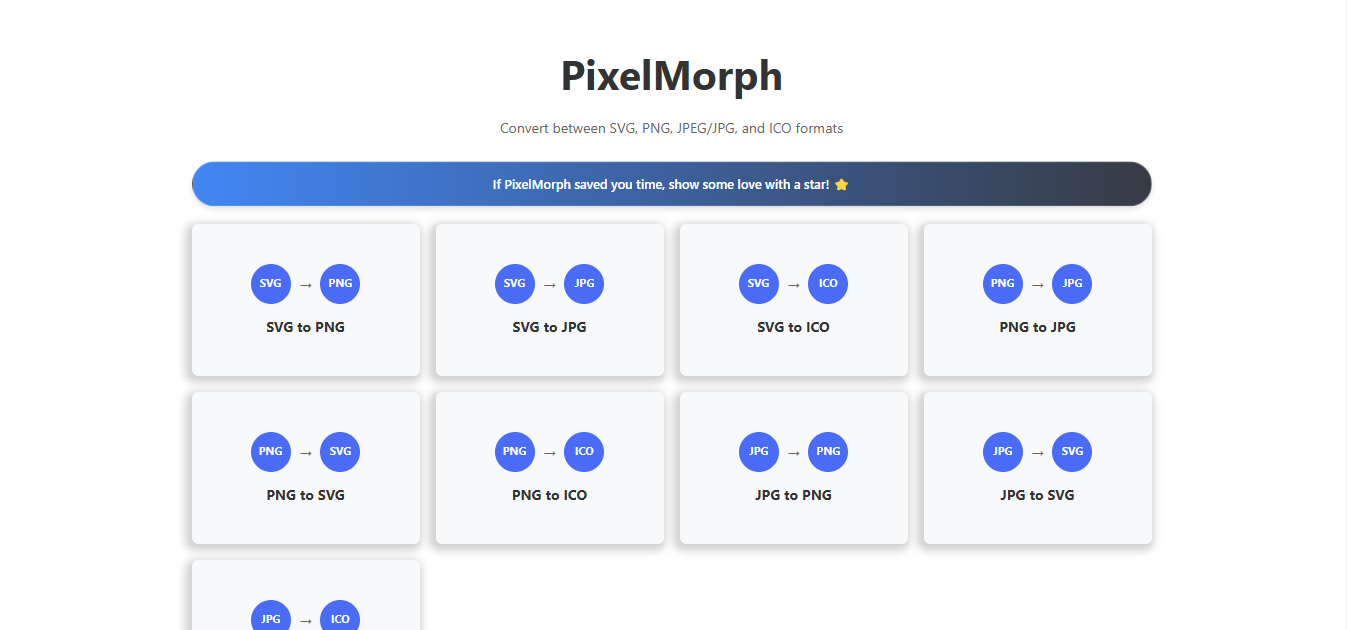
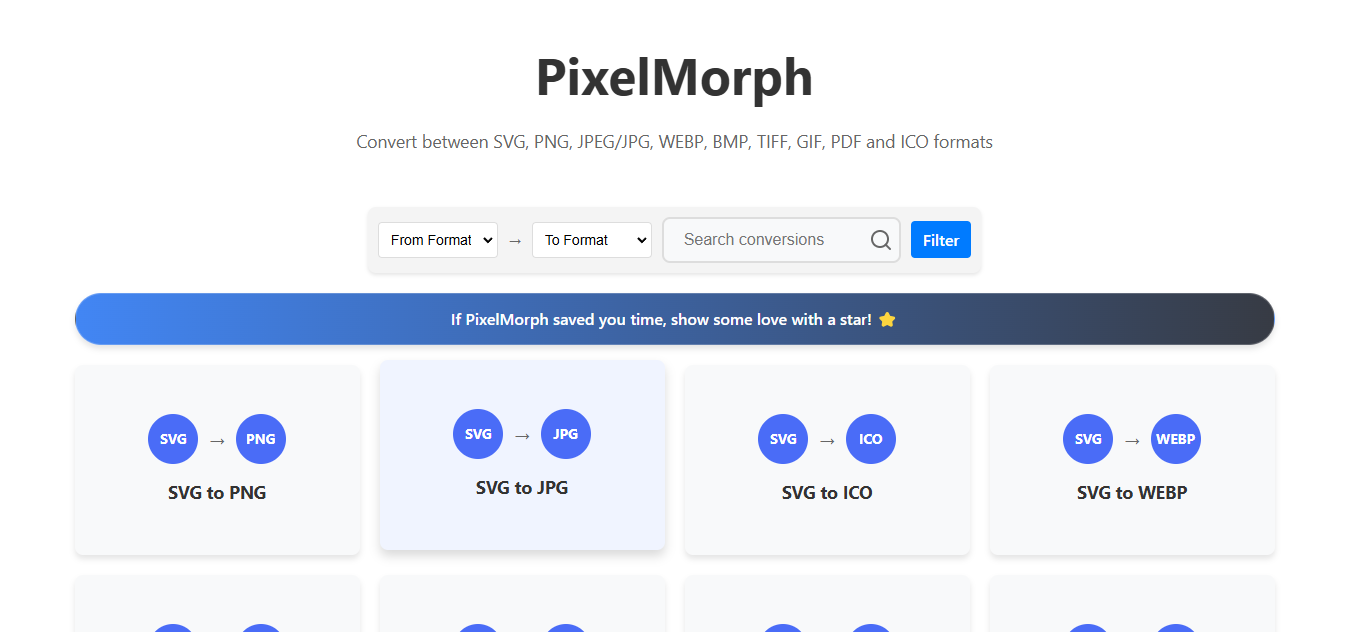
readme and screenshots are updated

diff --git a/README.md b/README.md
@@ -7,18 +7,32 @@
 
 ## 🖼 Overview
 
-PixelMorph is a powerful, browser-based image format converter that allows you to easily transform images between SVG, PNG, JPEG/JPG, and ICO formats. Built with React and modern web technologies, PixelMorph provides a seamless conversion experience with an intuitive user interface.
+PixelMorph is a powerful, browser-based image format converter that supports a wide range of formats including SVG, PNG, JPEG/JPG, ICO, WebP, BMP, TIFF, GIF, and PDF. Built with React and modern web technologies, PixelMorph provides a seamless conversion experience with an intuitive user interface.
 
 ## ✨ Features
 
-- **Multiple Format Support**: Convert between SVG, PNG, JPEG/JPG, and ICO formats
-- **Customizable Dimensions**: Adjust width and height with interactive sliders
-- **Aspect Ratio Preservation**: Maintain proportions with aspect ratio lock
+- **Comprehensive Format Support**: Convert between multiple formats:
+  - SVG to PNG, JPG, ICO, WebP, BMP, TIFF, GIF, PDF
+  - PNG to JPG, ICO, WebP, BMP, TIFF, GIF, PDF
+  - JPG to PNG, ICO, WebP, BMP, TIFF, GIF, PDF
+  - ICO to PNG, JPG, WebP, BMP, TIFF
+  - WebP to PNG, JPG, ICO, BMP, TIFF
+  - BMP to PNG, JPG, ICO, WebP, TIFF, GIF, PDF
+  - TIFF to PNG, JPG, ICO, WebP, BMP, GIF, PDF
+  - GIF to PNG, JPG, ICO, WebP, BMP, TIFF, PDF
+  - PDF to PNG, JPG, ICO, WebP, BMP, TIFF, GIF
+- **Advanced Image Controls**:
+  - Customizable dimensions with interactive sliders
+  - Image quality adjustment
+  - Rotation control
+  - Background color customization
+  - Aspect ratio preservation
+- **Drag & Drop Support**: Easy file uploading with drag and drop functionality
 - **Real-time Preview**: See your image before and after conversion
-- **Batch Processing**: Convert multiple images in succession
 - **No Server Uploads**: All processing happens locally in your browser for privacy
 - **Responsive Design**: Works on desktop and mobile devices
 - **Dark Mode Support**: Comfortable viewing in any lighting condition
+- **Batch Processing**: Convert multiple images in succession
 
 ## 🚀 Live Demo
 
@@ -27,7 +41,8 @@ PixelMorph is a powerful, browser-based image format converter that allows you t
 ## 📸 Screenshots
 
 ![PixelMorph Landing Page](/screenshots/screenshot1.png)
-![Conversion Interface](/screenshots/screenshot2.png)
+![PixelMorph Landing Page](/screenshots/screenshot2.png)
+![Conversion Interface](/screenshots/screenshot3.png)
 
 ## 🛠 Technologies Used
 
@@ -35,6 +50,9 @@ PixelMorph is a powerful, browser-based image format converter that allows you t
 - **React Router**: Navigation and routing
 - **File-Saver**: Client-side file saving functionality
 - **HTML5 Canvas API**: Image processing and manipulation
+- **jsPDF**: PDF generation and handling
+- **React Colorful**: Color picker component
+- **React Dropzone**: Drag and drop functionality
 - **CSS3**: Styling and responsive design
 - **Vite**: Fast development and optimized builds
 
@@ -73,11 +91,17 @@ PixelMorph is a powerful, browser-based image format converter that allows you t
 
 ## 🔍 How to Use
 
-1. **Select Conversion Type**: Choose the conversion you want to perform from the landing page (e.g., SVG to PNG, JPG to ICO)
-2. **Upload Image**: Click the upload button to select your source image
-3. **Adjust Settings**: Modify dimensions and other settings as needed
+1. **Select Conversion Type**: Choose from the wide range of conversion options on the landing page
+2. **Upload Image**: Either drag & drop your image or click to select
+3. **Customize Output**:
+   - Adjust dimensions using sliders or input fields
+   - Set image quality (1-100%)
+   - Rotate the image (0-360 degrees)
+   - Choose background color
+   - Toggle aspect ratio preservation
 4. **Convert**: Click the convert button to process your image
-5. **Download**: After conversion, click the download button to save your new image
+5. **Preview**: Review the converted image in real-time
+6. **Download**: Click the download button to save your converted image
 
 ## 📦 Building for Production
 
@@ -119,6 +143,9 @@ This project is licensed under the MIT License - see the [LICENSE](LICENSE) file
 - [Vite](https://vitejs.dev/) - Build Tool
 - [File-Saver](https://github.com/eligrey/FileSaver.js/) - Client-side file saving
 - [React Router](https://reactrouter.com/) - Routing library
+- [jsPDF](https://github.com/parallax/jsPDF) - PDF generation
+- [React Colorful](https://github.com/omgovich/react-colorful) - Color picker
+- [React Dropzone](https://github.com/react-dropzone/react-dropzone) - Drag & drop
 
 ## 📞 Contact
 
